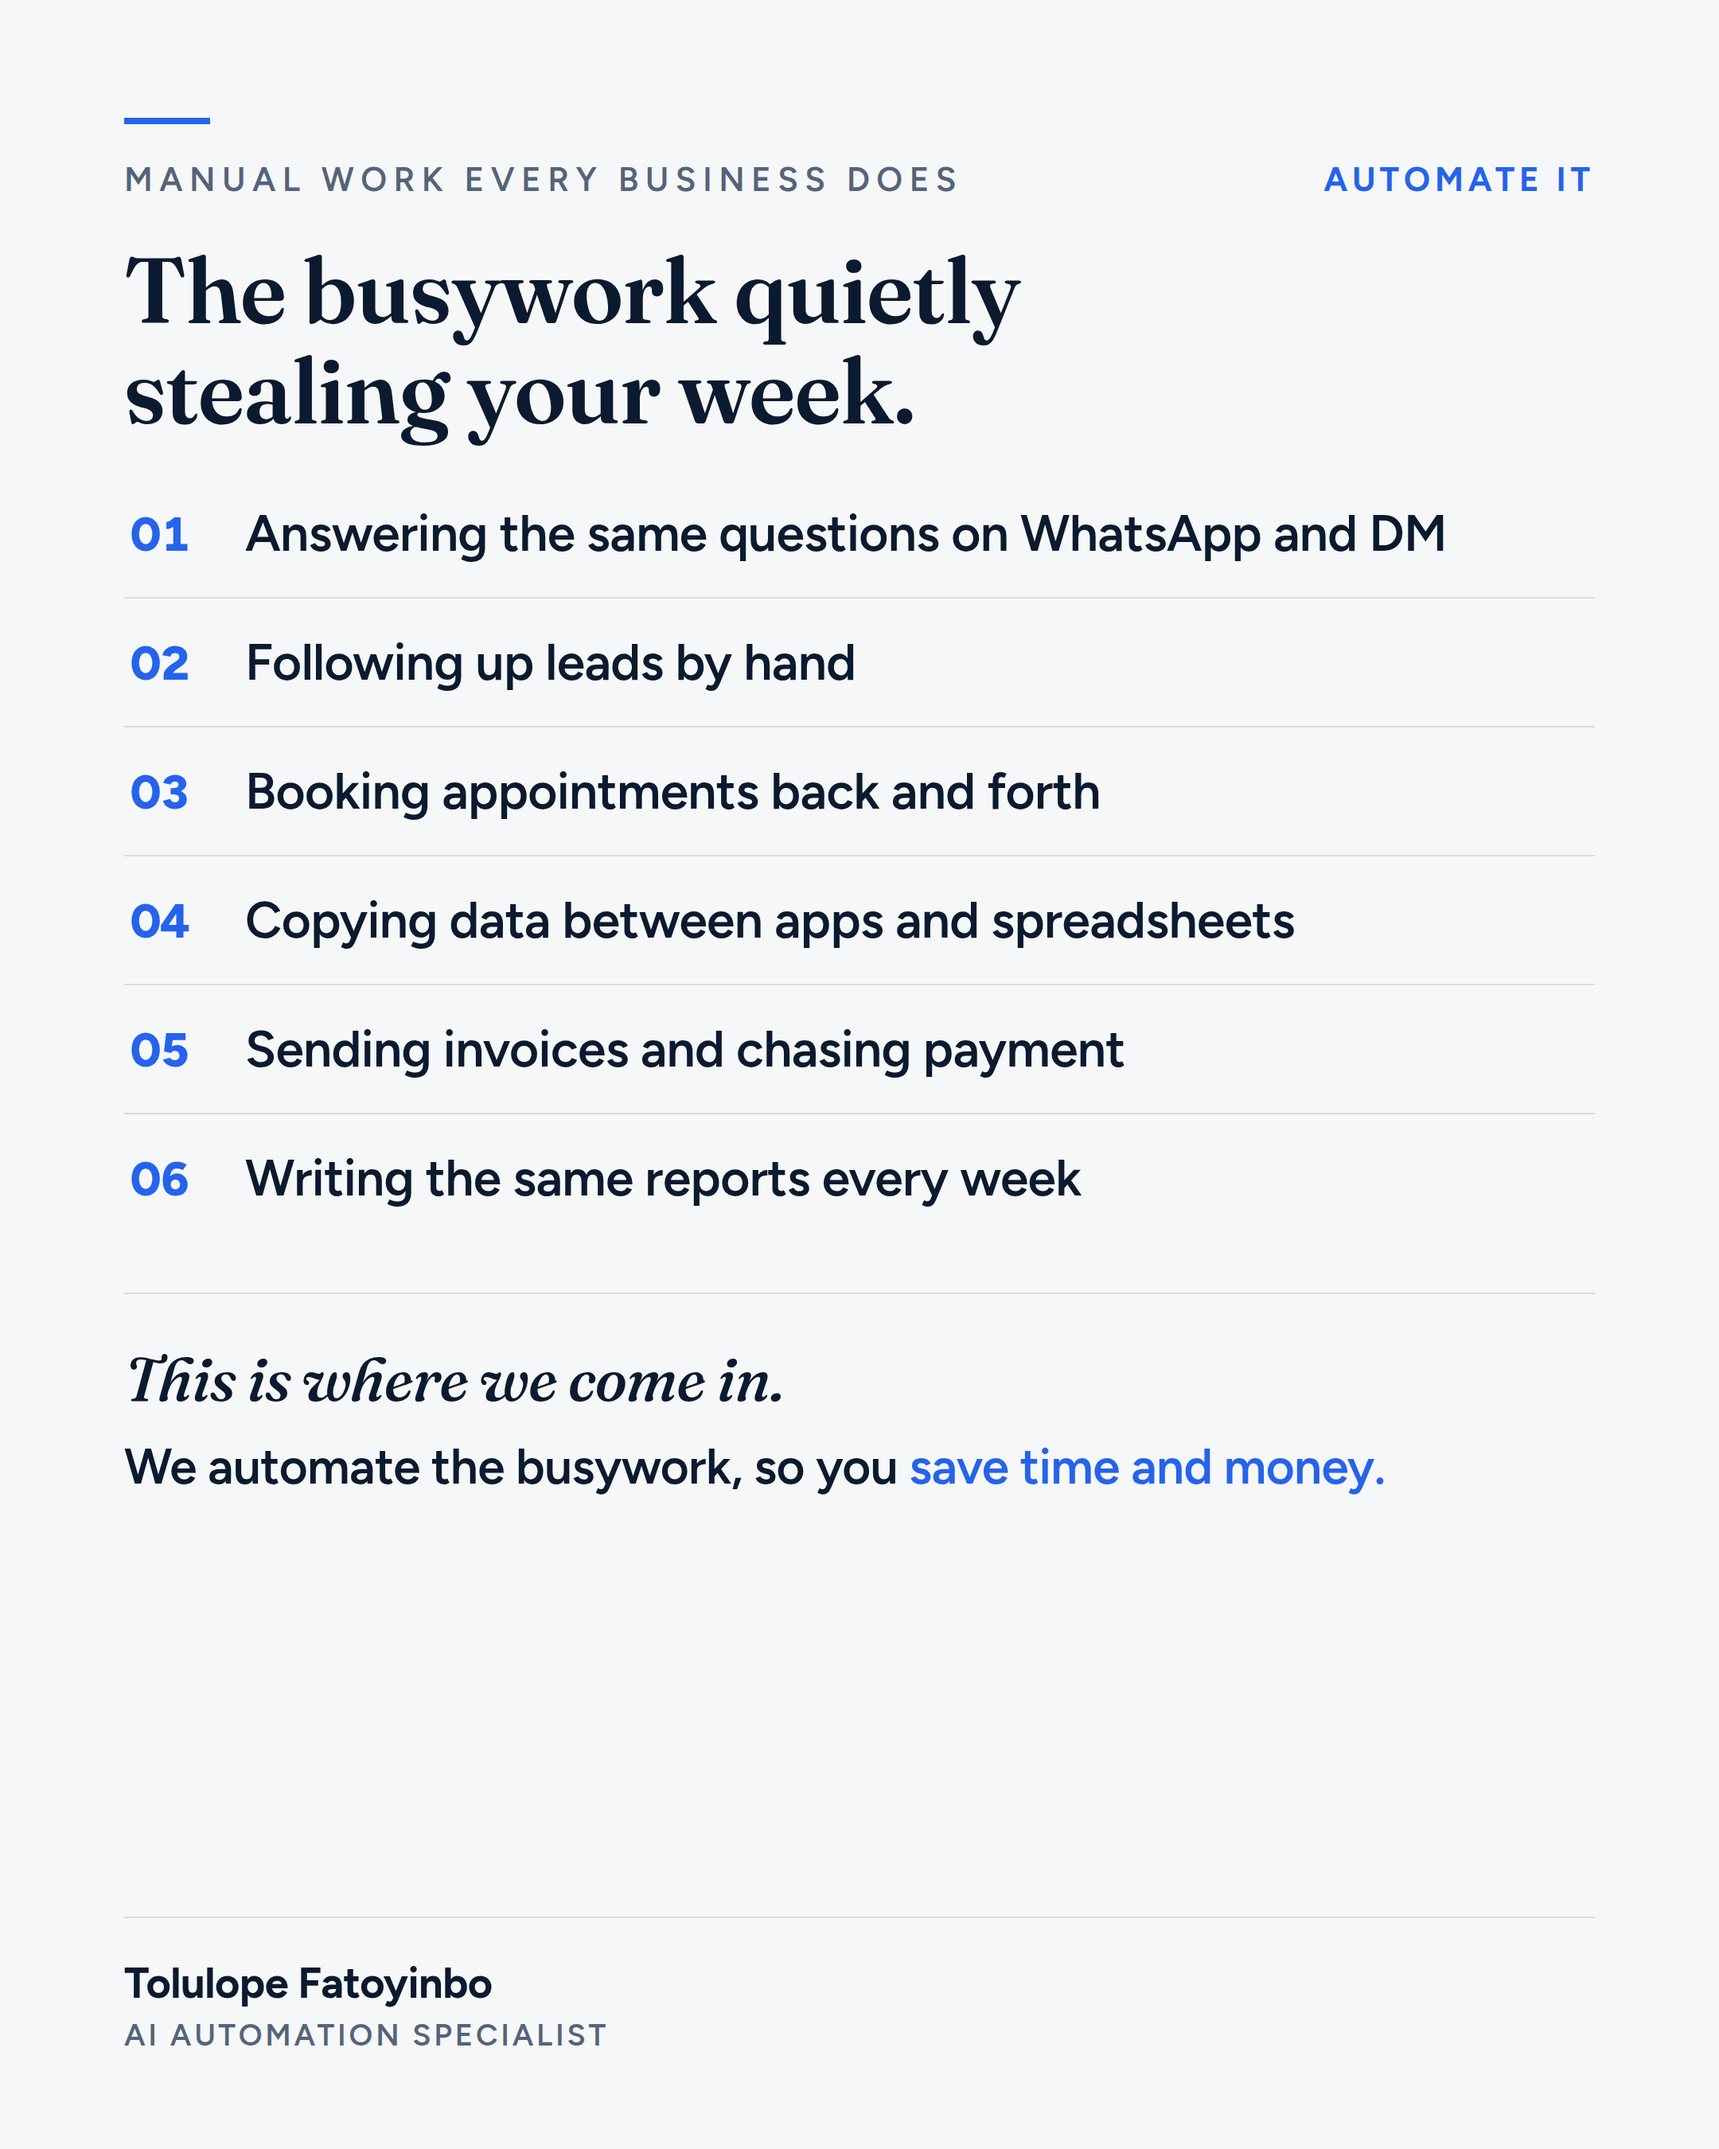
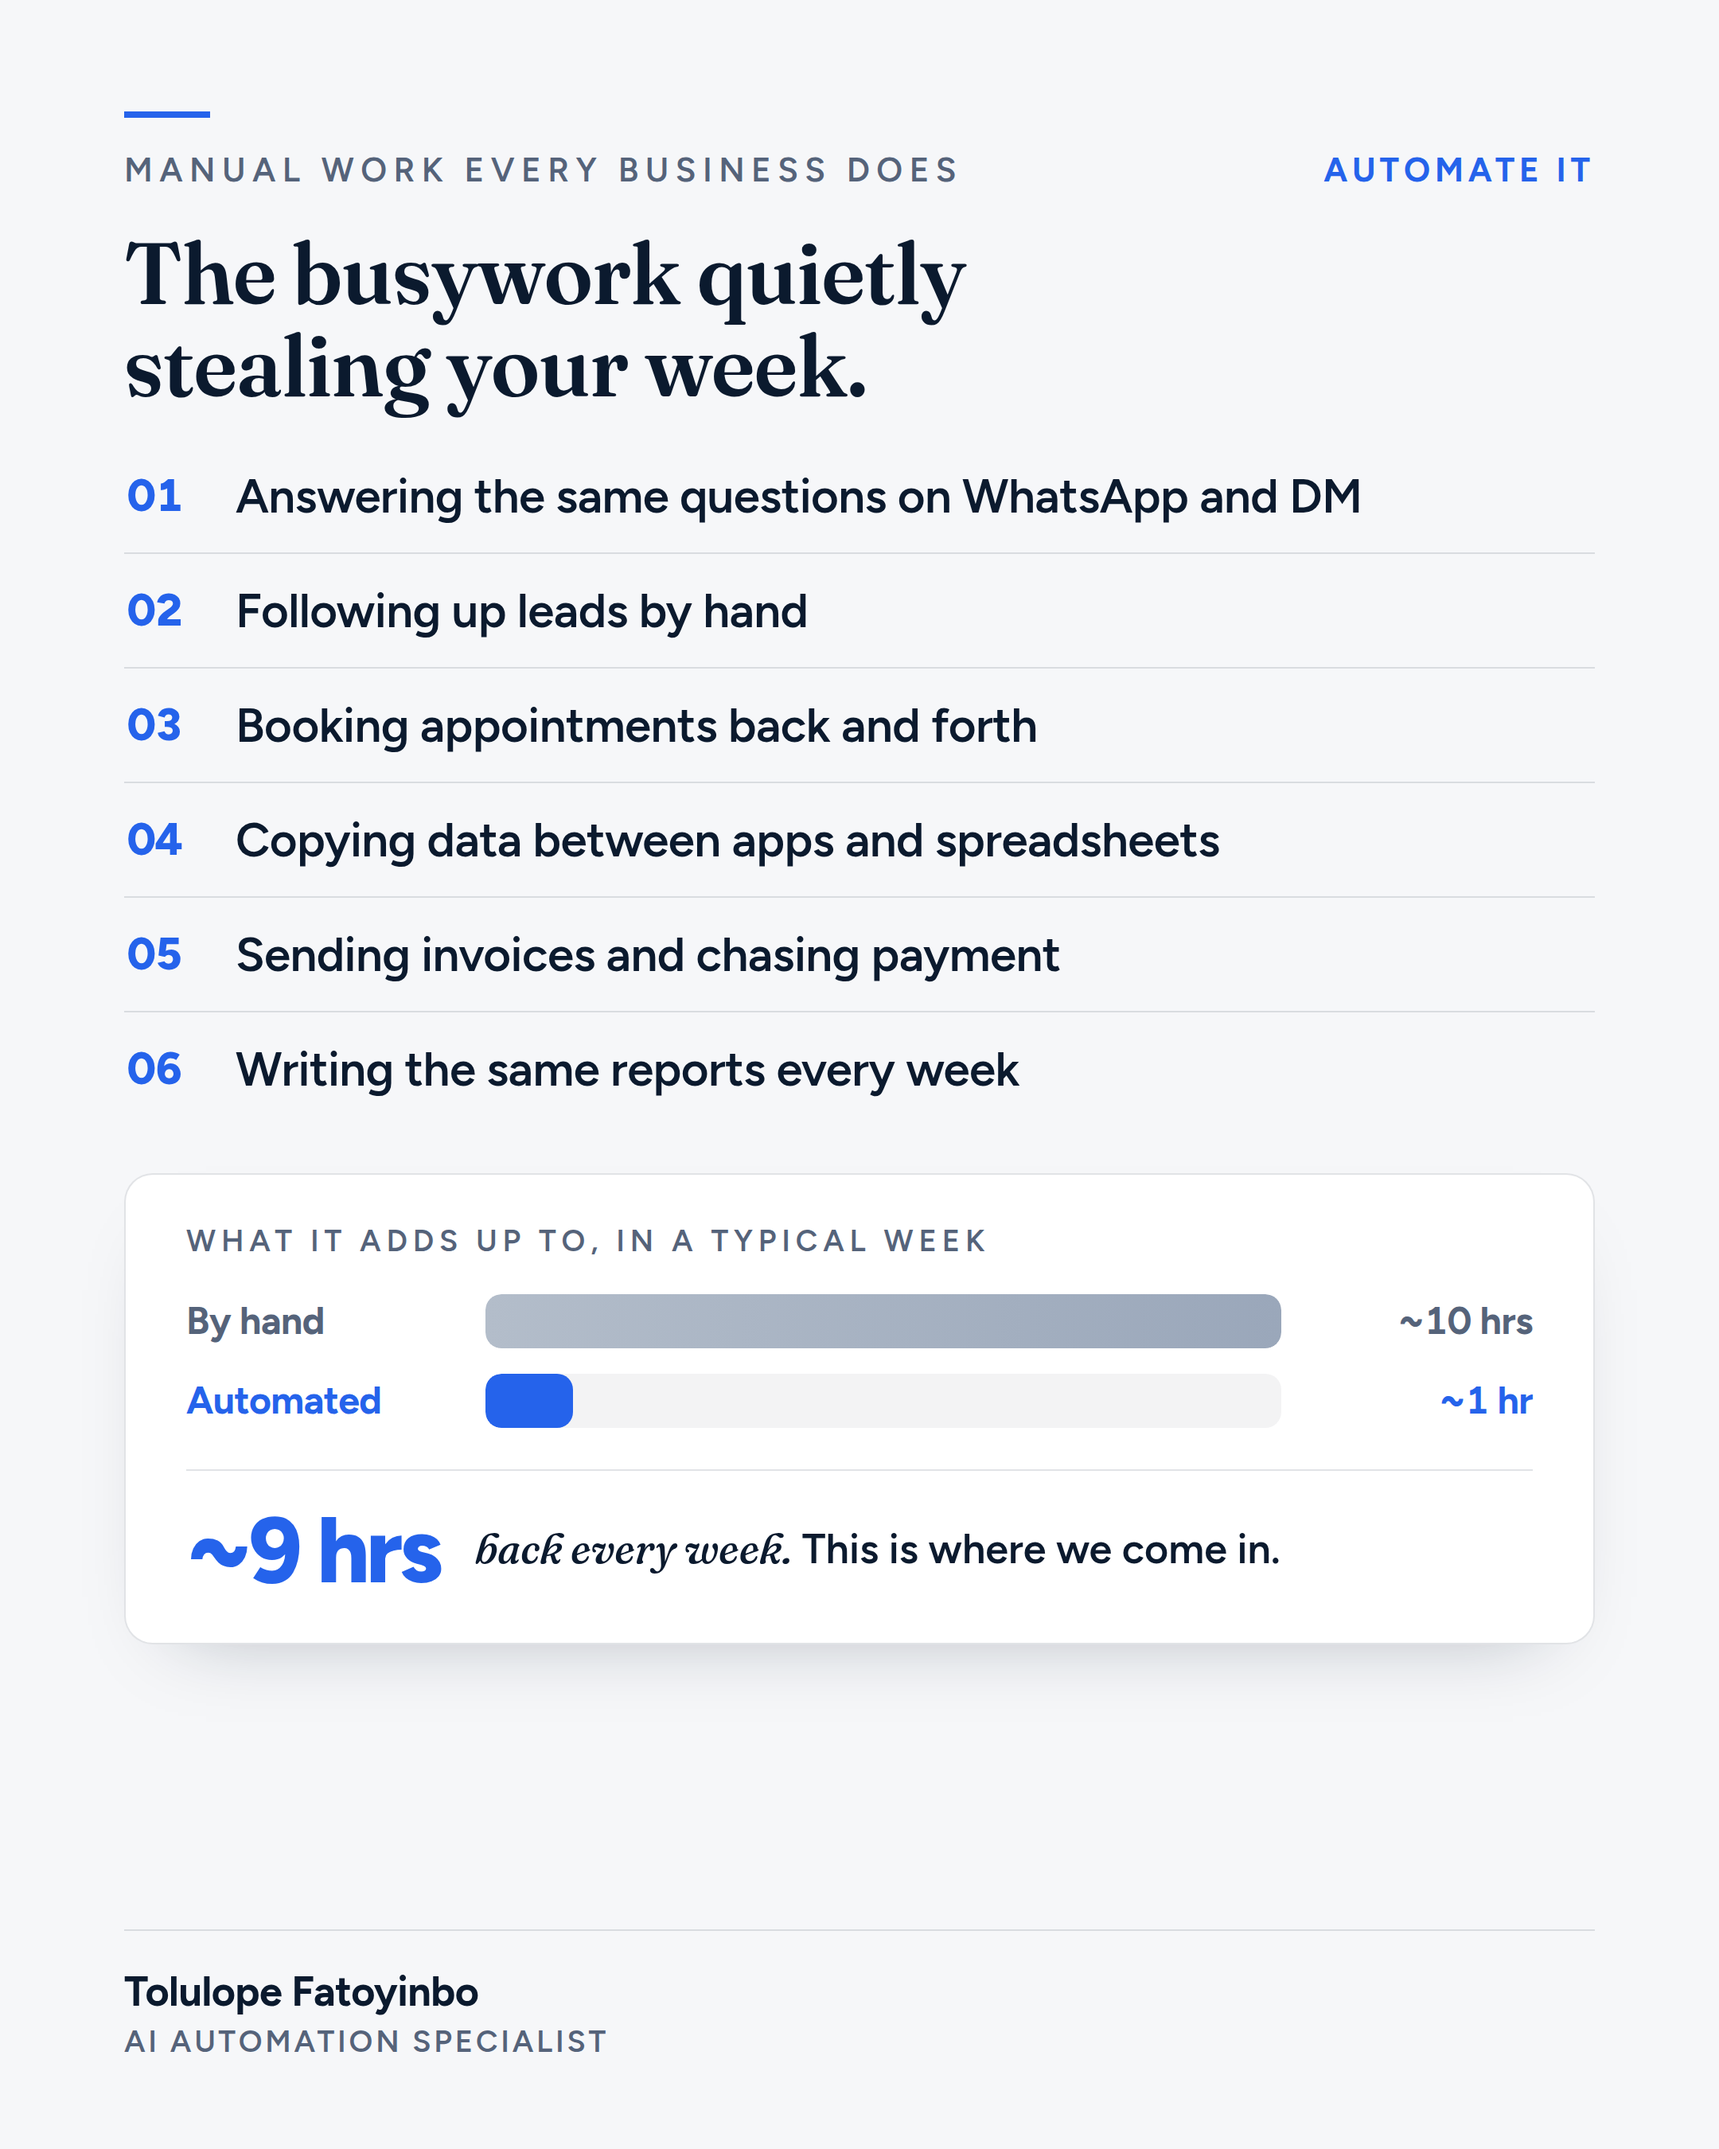
Social post: add a time-payoff infographic to the manual-work checklist
Add a compact "what it adds up to" bar under the six-task list: by hand
(~10 hrs) against automated (~1 hr), with ~9 hrs back a week called out and
the positioning line. Hours are illustrative of a typical week. Keeps the
white/navy system; still no em dashes.

Claude-Session: https://claude.ai/code/session_01SkFGZsBuYd2sbHqq7bJQT8

diff --git a/marketing/social/composition.html b/marketing/social/composition.html
@@ -7,16 +7,18 @@
 
     <!--
       Single 4:5 infographic (1080x1350), rendered locally to PNG by render.mjs.
-      Same editorial system as the AI-in-Nigeria post: white ground, deep-navy type, one
-      blue accent, Fraunces serif headline over Figtree. A simple numbered checklist of the
-      manual tasks that waste a business's time. Deliberately uncluttered. No em dashes.
-      Fonts embedded from local ./fonts, no network at render.
+      White editorial system: deep-navy type, one blue accent, Fraunces serif headline over
+      Figtree. A simple numbered checklist of manual tasks, plus a compact "what it adds up
+      to" bar (by hand vs automated) as the visual payoff. The hours are illustrative of a
+      typical week, not a data claim. No em dashes. Fonts embedded from local ./fonts.
     -->
     <style>
       :root {
         --paper: #f6f7f9;
+        --card: #ffffff;
         --navy: #0b1a2e;
         --slate: #55637a;
+        --steel: #9aa7ba;
         --faint: #8a97a7;
         --accent: #2563eb;
         --rule: rgb(11 26 46 / 0.12);
@@ -30,38 +32,51 @@
         position: relative; width: var(--w); height: var(--h); overflow: hidden;
         background: var(--paper); color: var(--navy);
         font-family: Figtree, ui-sans-serif, system-ui, sans-serif;
-        padding: 74px 78px 60px; display: flex; flex-direction: column;
+        padding: 70px 78px 56px; display: flex; flex-direction: column;
       }
 
-      .accentbar { width: 54px; height: 4px; background: var(--accent); margin-bottom: 22px; }
-
+      .accentbar { width: 54px; height: 4px; background: var(--accent); margin-bottom: 20px; }
       .header { display: flex; align-items: center; justify-content: space-between; }
       .eyebrow { font-size: 21px; font-weight: 600; letter-spacing: 0.2em; text-transform: uppercase; color: var(--slate); }
       .tag { font-size: 21px; font-weight: 700; letter-spacing: 0.14em; color: var(--accent); text-transform: uppercase; }
 
       .hero {
         font-family: Fraunces, ui-serif, Georgia, serif; font-weight: 600;
-        font-size: 58px; line-height: 1.08; letter-spacing: -0.01em;
-        margin-top: 26px; text-wrap: balance;
+        font-size: 54px; line-height: 1.07; letter-spacing: -0.01em;
+        margin-top: 24px; text-wrap: balance;
       }
 
-      .list { margin-top: 34px; }
-      .row { display: flex; align-items: center; gap: 26px; padding: 21px 4px; border-top: 1px solid var(--rule); }
-      .row:first-child { border-top: none; padding-top: 6px; }
-      .row .n { flex: none; width: 46px; font-size: 30px; font-weight: 800; color: var(--accent); letter-spacing: -0.02em; font-variant-numeric: tabular-nums; }
-      .row .t { font-size: 32px; font-weight: 600; letter-spacing: -0.01em; color: var(--navy); }
+      .list { margin-top: 30px; }
+      .row { display: flex; align-items: center; gap: 24px; padding: 17px 2px; border-top: 1px solid var(--rule); }
+      .row:first-child { border-top: none; padding-top: 4px; }
+      .row .n { flex: none; width: 44px; font-size: 28px; font-weight: 800; color: var(--accent); letter-spacing: -0.02em; font-variant-numeric: tabular-nums; }
+      .row .t { font-size: 30px; font-weight: 600; letter-spacing: -0.01em; color: var(--navy); }
 
-      .cta { margin-top: 32px; padding-top: 30px; border-top: 1px solid var(--rule); }
-      .cta .lead {
-        font-family: Fraunces, ui-serif, Georgia, serif; font-style: italic; font-weight: 500;
-        font-size: 38px; color: var(--navy); letter-spacing: -0.01em;
+      /* payoff infographic */
+      .payoff {
+        margin-top: 30px; background: var(--card); border: 1px solid var(--rule); border-radius: 18px;
+        box-shadow: 0 22px 50px -34px rgb(11 26 46 / 0.35); padding: 30px 38px 32px;
       }
-      .cta .line { margin-top: 12px; font-size: 31px; font-weight: 600; line-height: 1.3; letter-spacing: -0.01em; color: var(--navy); }
-      .cta .line .g { color: var(--accent); }
+      .ptitle { font-size: 19px; font-weight: 600; letter-spacing: 0.18em; text-transform: uppercase; color: var(--slate); margin-bottom: 22px; }
+      .brow { display: grid; grid-template-columns: 168px 1fr 138px; align-items: center; gap: 20px; }
+      .brow + .brow { margin-top: 16px; }
+      .blabel { font-size: 24px; font-weight: 700; letter-spacing: -0.01em; }
+      .brow.manual .blabel, .brow.manual .bval { color: var(--slate); }
+      .brow.auto .blabel, .brow.auto .bval { color: var(--accent); }
+      .btrack { display: block; height: 34px; border-radius: 10px; background: rgb(11 26 46 / 0.05); overflow: hidden; }
+      .bfill { display: block; height: 100%; border-radius: 10px; }
+      .bfill.manual { width: 100%; background: linear-gradient(90deg, #b3bdca, var(--steel)); }
+      .bfill.auto { width: 11%; min-width: 46px; background: var(--accent); }
+      .bval { text-align: right; font-size: 24px; font-weight: 700; letter-spacing: -0.01em; font-variant-numeric: tabular-nums; }
 
-      .foot { margin-top: auto; padding-top: 24px; border-top: 1px solid var(--rule); }
-      .foot .name { font-size: 27px; font-weight: 700; letter-spacing: -0.01em; }
-      .foot .role { margin-top: 5px; font-size: 19px; font-weight: 600; letter-spacing: 0.1em; text-transform: uppercase; color: var(--slate); }
+      .reclaim { margin-top: 26px; padding-top: 24px; border-top: 1px solid var(--rule); display: flex; align-items: center; gap: 22px; }
+      .reclaim .num { flex: none; font-size: 58px; font-weight: 800; letter-spacing: -0.04em; color: var(--accent); line-height: 0.9; white-space: nowrap; }
+      .reclaim .txt { font-size: 26px; font-weight: 600; line-height: 1.28; color: var(--navy); }
+      .reclaim .txt .lead { font-family: Fraunces, ui-serif, Georgia, serif; font-style: italic; font-weight: 500; }
+
+      .foot { margin-top: auto; padding-top: 22px; border-top: 1px solid var(--rule); }
+      .foot .name { font-size: 26px; font-weight: 700; letter-spacing: -0.01em; }
+      .foot .role { margin-top: 4px; font-size: 19px; font-weight: 600; letter-spacing: 0.1em; text-transform: uppercase; color: var(--slate); }
     </style>
   </head>
 
@@ -85,9 +100,22 @@
         <div class="row"><span class="n">06</span><span class="t">Writing the same reports every week</span></div>
       </div>
 
-      <div class="cta">
-        <div class="lead">This is where we come in.</div>
-        <div class="line">We automate the busywork, so you <span class="g">save time and money.</span></div>
+      <div class="payoff">
+        <div class="ptitle">What it adds up to, in a typical week</div>
+        <div class="brow manual">
+          <span class="blabel">By hand</span>
+          <span class="btrack"><span class="bfill manual"></span></span>
+          <span class="bval">~10 hrs</span>
+        </div>
+        <div class="brow auto">
+          <span class="blabel">Automated</span>
+          <span class="btrack"><span class="bfill auto"></span></span>
+          <span class="bval">~1 hr</span>
+        </div>
+        <div class="reclaim">
+          <span class="num">~9 hrs</span>
+          <span class="txt"><span class="lead">back every week.</span> This is where we come in.</span>
+        </div>
       </div>
 
       <div class="foot">
